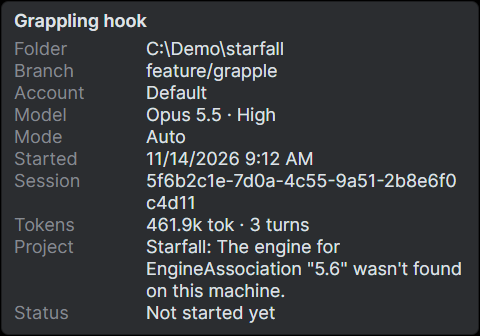
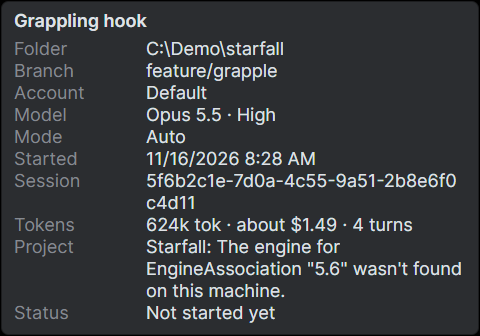
Retake the guide's picture of the info card, with the tab's cost
Its Tokens row has said about what the tokens cost since the token breakdown. GUIDE.md no longer says the info card and
the command palette need -WithInput, which the script dropped when both came to be shown through the command channel.

Changed region(s): [[0.2812, 0.625, 0.875, 0.7143], [0.375, 0.4464, 0.6562, 0.506]]

diff --git a/GUIDE.md b/GUIDE.md
@@ -382,7 +382,7 @@ The map covers every part of Deventry that DESIGN.md describes. When a chapter i
 
 ## 7. Keeping it current
 
-- A change people can see updates its guide page and retakes its pictures in the same change, as it updates DESIGN.md (`guide-screenshots.ps1 -Only <chapter>/<picture>`). CLAUDE.md says so. The script leaves the focus, keyboard and pointer alone, so a run can go on while you work; the two pictures that need them, `tabs/info-card` and `tabs/command-palette`, are taken only with `-WithInput`, which borrows them for a few seconds each.
+- A change people can see updates its guide page and retakes its pictures in the same change, as it updates DESIGN.md (`guide-screenshots.ps1 -Only <chapter>/<picture>`). CLAUDE.md says so. The script leaves the focus, keyboard and pointer alone, so a run can go on while you work: even the info card, which shows as the pointer rests on a row, and the command palette, which its shortcut opens, are shown through Deventry's command channel.
 - A change to what the README's pictures show, which the guide's pages use too (the main window and its header, the detailed header, the diff view, Tasks and Agents, Settings, History, the Files tab), retakes them with `screenshots.ps1`, which draws the social card again from the new main window. Both scripts take `-Projects` a short folder that says nothing about you, such as `C:\Demo`.
 - A new part of Deventry in DESIGN.md gets its row in the map here, and its page, in the same change.
 - A change people would notice adds its entry to `CHANGELOG.md`'s **Unreleased** section in the same change ([The changelog](#the-changelog)). CLAUDE.md says so too.
